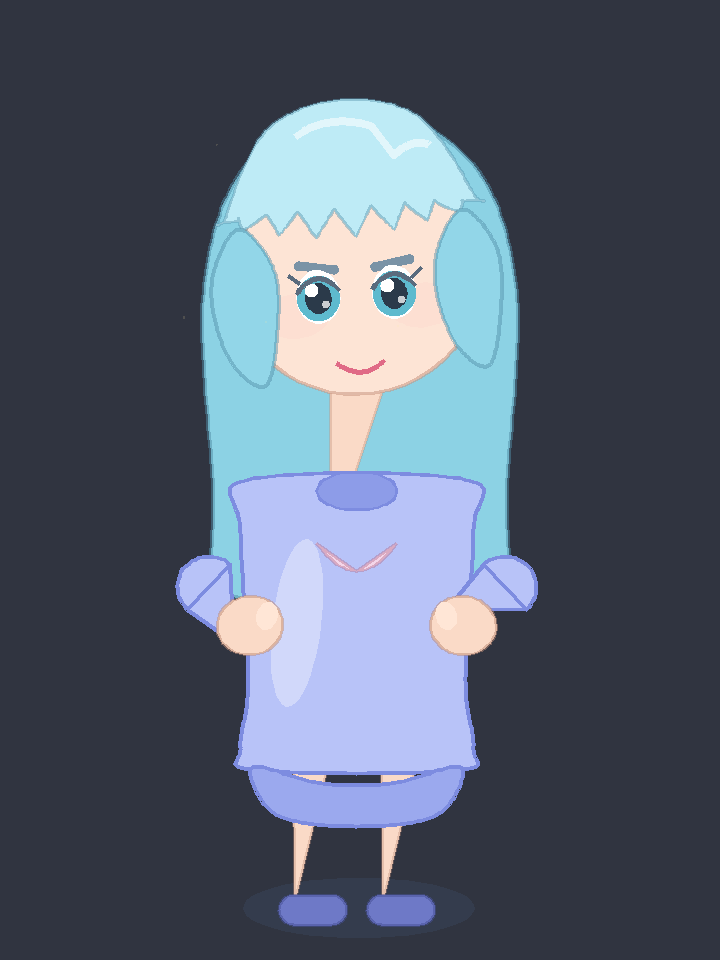
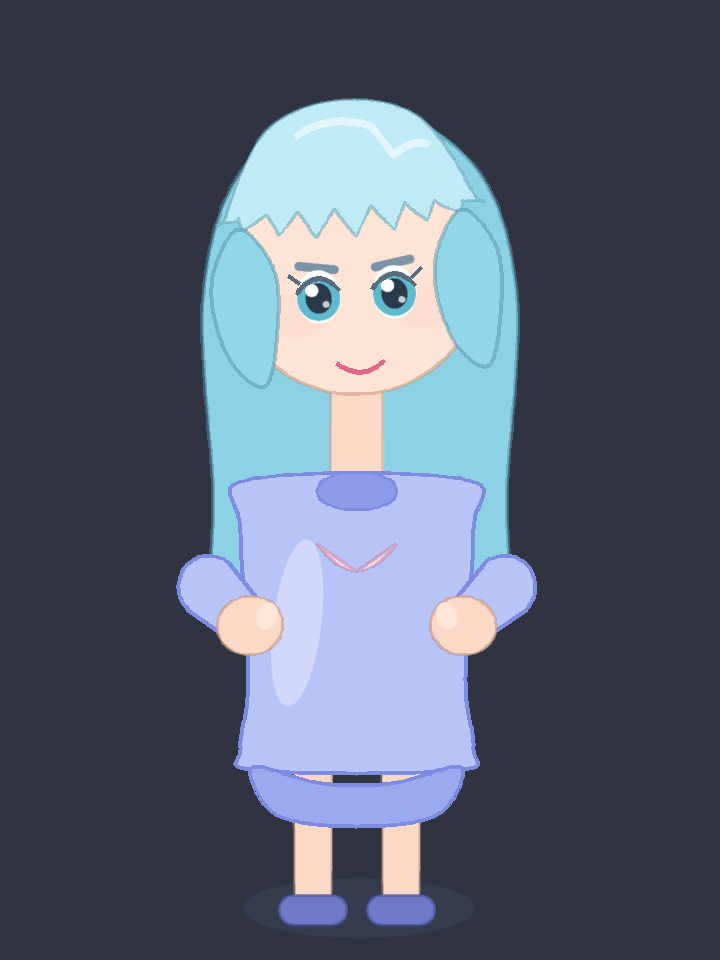
fix(pet): capsule() 两段弧扫同一侧导致四肢呈现锥形/纺锤形
- web/js/pet/draw.js: capsule() 两段 ctx.arc() 改为各扫一半（原来都扫 +n 侧），
  路径不再自相交。浏览器按非零规则填充，旧路径实际只填出半个宽度 —— 这是真缺陷，
  不是回放工具的伪影（脖子/腿/手臂因此在浏览器和像素图里都是锥形）。
- tools/rasterize-canvas.py: 新增 fill_nonzero()（2x2 超采样 + 非零环绕规则）替代
  ImageDraw.polygon() 的偶奇规则；新增 dedupe() 去 closePath() 的零长度边；
  可选 AEMEATH_TRACE_PIXEL 逐 op 打印某点像素。
- tools/contact-sheet.py: 常规化为开源工具（--dir 指定帧目录 + 断言各格尺寸一致）。
- 基准样本与对照表重出；README 补对照表用法与非零环绕规则的说明。

diff --git a/web/js/pet/draw.js b/web/js/pet/draw.js
@@ -60,7 +60,16 @@ function ellipsePath(ctx, cx, cy, rx, ry, rot = 0) {
   ctx.ellipse(cx, cy, Math.max(0.1, rx), Math.max(0.1, ry), rot, 0, TAU);
 }
 
-/** 通过两点的胶囊（用来画四肢/发束） */
+/**
+ * 通过两点的胶囊（用来画四肢/发束/脖子）。
+ *
+ * 关键：两端的半圆必须各扫**一半**，而且方向要接得上 —— 第一段弧从
+ * 「右下」扫到「左下」（经过右下角），第二段弧从「左上」扫到「右上」（经过左上角）。
+ * 早先这里写的是 `a ± π/2` 与 `a + π/2 … a + 3π/2`，两段弧都在扫同一侧
+ * （当前点不在弧起点时 canvas 会自动补一条连线），于是路径变成自相交的
+ * 「领结」形：两个细长透镜瓣交叉。浏览器按非零环绕规则填充，结果只剩
+ * 半个宽度；像素图里脖子/腿/手臂因此全是**锥形**——本项目为此误诊过整整一轮。
+ */
 function capsule(ctx, x1, y1, x2, y2, r1, r2 = r1) {
   const dx = x2 - x1;
   const dy = y2 - y1;
@@ -68,12 +77,15 @@ function capsule(ctx, x1, y1, x2, y2, r1, r2 = r1) {
   const a = Math.atan2(dy, dx);
   const nx = -dy / len;
   const ny = dx / len;
+  const HALF = Math.PI / 2;
   ctx.beginPath();
   ctx.moveTo(x1 + nx * r1, y1 + ny * r1);
   ctx.lineTo(x2 + nx * r2, y2 + ny * r2);
-  ctx.arc(x2, y2, r2, a - Math.PI / 2, a + Math.PI / 2);
+  // 端点半圆：从右法线侧扫到左法线侧（顺时针经过 +n 方向那一端）
+  ctx.arc(x2, y2, r2, a + HALF, a - HALF, true);
   ctx.lineTo(x1 - nx * r1, y1 - ny * r1);
-  ctx.arc(x1, y1, r1, a + Math.PI / 2, a + Math.PI * 1.5);
+  // 另一端：从左法线侧扫到右法线侧
+  ctx.arc(x1, y1, r1, a - HALF, a + HALF, true);
   ctx.closePath();
 }
 

diff --git a/tools/rasterize-canvas.py b/tools/rasterize-canvas.py
@@ -127,6 +127,24 @@ def avg_color_of_gradient(g):
 CURVE_STEPS = 24
 
 
+def dedupe(pts):
+    """去掉相邻重复点。
+
+    Canvas 的 closePath() 会在路径末尾补一条「回到起点」的边；若路径本身已经
+    结束在起点上（draw.js 的 capsule() 就是这种形态），折线化后就会出现一对
+    重合点 + 一条零长度边。PIL 的 polygon() 扫描线遇到零长度边时会把自相交
+    轮廓只填出**一半**（右半），于是竖直的胶囊被渲染成「纺锤/锥形」——
+    脖子、腿、手臂因此看起来是锥体，而它们从来不是。本项目为此误诊过一轮。
+    """
+    out = []
+    for p in pts:
+        if not out or abs(p[0] - out[-1][0]) > 1e-9 or abs(p[1] - out[-1][1]) > 1e-9:
+            out.append(p)
+    while len(out) > 2 and abs(out[0][0] - out[-1][0]) <= 1e-9 and abs(out[0][1] - out[-1][1]) <= 1e-9:
+        out.pop()
+    return out
+
+
 def apply_matrix(m, x, y):
     a, b, c, d, e, f = m
     return (a * x + c * y + e, b * x + d * y + f)
@@ -153,6 +171,59 @@ def arc_points(cx, cy, rx, ry, rot, a0, a1, ccw, steps=None):
     return pts
 
 
+def fill_nonzero(size, pts, color):
+    """按 canvas 的**非零环绕规则（nonzero winding）**填充多边形，带 2x2 超采样抗锯齿。
+
+    返回与调用方同尺寸（设备像素）的 RGBA 图层。`size` 传设备像素尺寸。
+
+    为什么不能用 PIL 的 `ImageDraw.polygon()`：它用的是偶奇（even-odd）规则。
+    而本项目 `web/js/pet/draw.js` 的 `capsule()` 曾经生成**自相交**的「领结」
+    路径（两段弧扫同一侧），浏览器按非零环绕规则填充、PIL 按偶奇规则填充，
+    两者结果不同 —— 像素图里脖子/腿/手臂因此全变成「锥形/纺锤形」，
+    本项目为此误诊过整整一轮（连美术都被要求返工）。
+    """
+    w, h = size
+    ss = 2  # 超采样倍数
+    W, H = w * ss, h * ss
+    cover = Image.new("L", (W, H), 0)
+    cp = cover.load()
+    n = len(pts)
+    if n < 3:
+        return None
+    ys = [p[1] for p in pts]
+    y0 = max(0, int(math.floor(min(ys) * ss)) - 1)
+    y1 = min(H - 1, int(math.ceil(max(ys) * ss)) + 1)
+    for py in range(y0, y1 + 1):
+        yc = (py + 0.5) / ss
+        xs = []
+        for i in range(n):
+            xa, ya = pts[i]
+            xb, yb = pts[(i + 1) % n]
+            if ya == yb:
+                continue
+            if (ya > yc) != (yb > yc):
+                t = (yc - ya) / (yb - ya)
+                xs.append((xa + t * (xb - xa), 1 if yb > ya else -1))
+        if len(xs) < 2:
+            continue
+        xs.sort(key=lambda v: v[0])
+        wind = 0
+        for k in range(len(xs) - 1):
+            wind += xs[k][1]
+            if wind == 0:
+                continue
+            a = int(math.floor(xs[k][0] * ss + 0.5))
+            b = int(math.floor(xs[k + 1][0] * ss + 0.5))
+            for px in range(max(0, a), min(W - 1, b) + 1):
+                cp[px, py] = 255
+    if ss != 1:
+        cover = cover.resize((w, h), Image.BILINEAR)
+    sol = Image.new("RGBA", (w, h), color)
+    sol.putalpha(ImageChops.multiply(sol.getchannel("A"), cover))
+    return sol
+
+
+# LEDGER:nonzero-fill-replaced-do_fill
 def flatten(cmds):
     """把指令序列折线化成 [(x,y), ...]（局部坐标）。"""
     out = []
@@ -202,7 +273,17 @@ def flatten(cmds):
             # 当成了旋转角 rot —— 于是每个圆弧都被额外旋转 0 或 1 弧度、整段弧被平移，
             # 胶囊路径（腿/脖子/手臂）渲染成"!"形楔子。像素图因此看起来像"锥形四肢"，
             # 但那从来不是画法的问题。修法：显式传关键字实参。
+            #
+            # Canvas 规范：arc() 的起点与当前点不同时会自动补一条 lineTo（等价于
+            # 先 lineTo(弧起点) 再画弧）。draw.js 的 capsule() 正是依赖这个行为：
+            # 它的最后一段 A 前面紧跟 lineTo，真正的弧起点与当前点只差 0.5px。
+            # 这里若不补这条线，路径会被"拉"到弧起点，折线化后多出一根横贯中轴的
+            # 碟形闭合线 —— 胶囊被填成"纺锤/锥形"，看起来就像脖子和腿是锥体。
             pts = arc_points(x, y, r, r, 0, a0, a1, ccw=bool(cw))
+            if pts and cur is not None:
+                dx0, dy0 = pts[0][0] - cur[0], pts[0][1] - cur[1]
+                if (dx0 * dx0 + dy0 * dy0) > 1e-9:
+                    out.append(pts[0])
             out.extend(pts)
             if pts:
                 cur = pts[-1]
@@ -282,17 +363,16 @@ class Rasterizer:
         return [(x * self.s, y * self.s) for (x, y) in pts]
 
     def do_fill(self, cmds, m, color, alpha):
-        pts = self.scaled(self.dev_points(cmds, m))
+        pts = self.scaled(dedupe(self.dev_points(cmds, m)))
         if len(pts) < 3:
             return
         r, g, b, a = color
         a = int(a * max(0.0, min(1.0, alpha)))
         if a <= 0:
             return
-        lay = self.layer()
-        d = ImageDraw.Draw(lay)
-        d.polygon(pts, fill=(r, g, b, a))
-        self.composite(lay)
+        lay = fill_nonzero(self.img.size, pts, (r, g, b, a))
+        if lay is not None:
+            self.composite(lay)
 
     def do_stroke(self, cmds, m, color, width, alpha):
         pts = self.scaled(self.dev_points(cmds, m))
@@ -322,7 +402,7 @@ class Rasterizer:
         if stroke:
             d.line(pts + [pts[0]], fill=(r, g, b, a), width=max(1, int(round(width * self.s))))
         else:
-            d.polygon(pts, fill=(r, g, b, a))
+            d.polygon(dedupe(pts), fill=(r, g, b, a))
         self.composite(lay)
 
     def do_text(self, item):
@@ -381,10 +461,19 @@ class Rasterizer:
 
     # -- 主循环 -----------------------------------------------------------
     def run(self, ops):
-        for item in ops:
+        import os
+        trace_px = os.environ.get("AEMEATH_TRACE_PIXEL")
+        for idx, item in enumerate(ops):
             op = item.get("op")
             m = item.get("transform", [1, 0, 0, 1, 0, 0])
             alpha = item.get("alpha", 1)
+            if trace_px:
+                try:
+                    tx, ty = (int(v) for v in trace_px.split(","))
+                except Exception:
+                    tx, ty = 190, 220
+                px = self.img.getpixel((tx * self.s, ty * self.s))
+                print(f"  [{idx:3d}] {op:10s} style={str(item.get('style'))[:28]:28s} px({tx},{ty})={px}")
             if op == "fill":
                 self.do_fill(item["cmds"], m, parse_color(item.get("style")), alpha)
             elif op == "stroke":
@@ -400,7 +489,7 @@ class Rasterizer:
                 if x <= 0 and y <= 0 and w >= self.w and h >= self.h:
                     self.img = Image.new("RGBA", self.img.size, (0, 0, 0, 0))
             elif op == "clip":
-                pts = self.scaled(self.dev_points(item["cmds"], m))
+                pts = self.scaled(dedupe(self.dev_points(item["cmds"], m)))
                 if len(pts) >= 3:
                     mask = Image.new("L", self.img.size, 0)
                     ImageDraw.Draw(mask).polygon(pts, fill=255)

diff --git a/tools/contact-sheet.py b/tools/contact-sheet.py
@@ -1,16 +1,32 @@
-# 一次性工具（Lead）：把 6 个 mood 的帧拼成一张对照表，用于目视验收。
+# 把若干 mood 的帧拼成一张对照表，用于目视验收（开源工具，随仓库发布）。
+#
 # 用法：
-#   node tools/dump-pet-frame.mjs --mood happy --out tools/samples/frame-happy.json
-#   python tools/rasterize-canvas.py tools/samples/frame-happy.json tools/samples/frame-happy.png --scale 1
-#   python tools/.contact-sheet.py <输出路径>
+#   python tools/contact-sheet.py <输出.png> [mood1,mood2,...] [--dir <帧目录>]
+#
+# 帧目录默认 tools/samples，按 <dir>/frame-<mood>.png 查找。
+# 典型流程（每格都用同样的 --scale，否则格子大小会不一致）：
+#   for m in idle happy shy surprised sad angry; do
+#     node tools/dump-pet-frame.mjs --mood $m --out /tmp/$m.json
+#     python tools/rasterize-canvas.py /tmp/$m.json /tmp/frame-$m.png --scale 1
+#   done
+#   python tools/contact-sheet.py tools/samples/contact-sheet.png idle,happy,shy,surprised,sad,angry --dir /tmp
 import sys
 from pathlib import Path
+
 from PIL import Image, ImageDraw, ImageFont
 
 root = Path(__file__).resolve().parent
-samples = root / "samples"
-out_path = Path(sys.argv[1]) if len(sys.argv) > 1 else root / ".contact-sheet.png"
-moods = sys.argv[2].split(",") if len(sys.argv) > 2 else ["idle", "happy", "shy", "surprised", "sad", "angry"]
+
+args = [a for a in sys.argv[1:]]
+dir_override = None
+if "--dir" in args:
+    i = args.index("--dir")
+    dir_override = args[i + 1] if i + 1 < len(args) else None
+    del args[i:i + 2]
+
+samples = Path(dir_override) if dir_override else (root / "samples")
+out_path = Path(args[0]) if args else (root / ".contact-sheet.png")
+moods = args[1].split(",") if len(args) > 1 else ["idle", "happy", "shy", "surprised", "sad", "angry"]
 COLS, PAD, LABEL = 3, 8, 22
 
 tiles = []
@@ -22,6 +38,10 @@ for m in moods:
     tiles.append((m, Image.open(p).convert("RGB")))
 if not tiles:
     raise SystemExit("没有任何帧可拼")
+
+sizes = {im.size for _, im in tiles}
+if len(sizes) > 1:
+    raise SystemExit(f"格子尺寸不一致 {sorted(sizes)}；请让所有帧用同一个 --scale 重出")
 
 w, h = tiles[0][1].size
 rows = (len(tiles) + COLS - 1) // COLS

diff --git a/README.md b/README.md
@@ -135,6 +135,18 @@ python tools/rasterize-canvas.py tools/samples/frame-idle.json tools/samples/fra
 
 `tools/samples/` 里已经放了一份基准样本（`frame-idle.json` / `frame-idle.png`），改渲染后可以对照。
 
+想把多个情绪并排看，用对照表工具（每一格务必用**同一个 `--scale`**，否则格子大小会不一致）：
+
+```bash
+for m in idle happy shy surprised sad angry; do
+  node tools/dump-pet-frame.mjs --mood $m --out /tmp/frame-$m.json
+  python tools/rasterize-canvas.py /tmp/frame-$m.json /tmp/frame-$m.png --scale 1
+done
+python tools/contact-sheet.py tools/samples/contact-sheet.png idle,happy,shy,surprised,sad,angry --dir /tmp
+```
+
+> 注意：`tools/rasterize-canvas.py` 用**非零环绕规则**（和浏览器一致）填充路径，而不是 PIL `ImageDraw.polygon()` 的偶奇规则 —— 两者对**自相交**路径结果不同（本项目踩过：`capsule()` 曾两段弧扫同一侧，浏览器里也只填出半个宽度）。改这个文件时别把 `fill_nonzero()` 换回去。
+
 ## 自己动手做一版声音（简版）
 
 完整流程见 `voice-training/SCHEMA.md` 与 `voice-training/scripts/README.md`。
